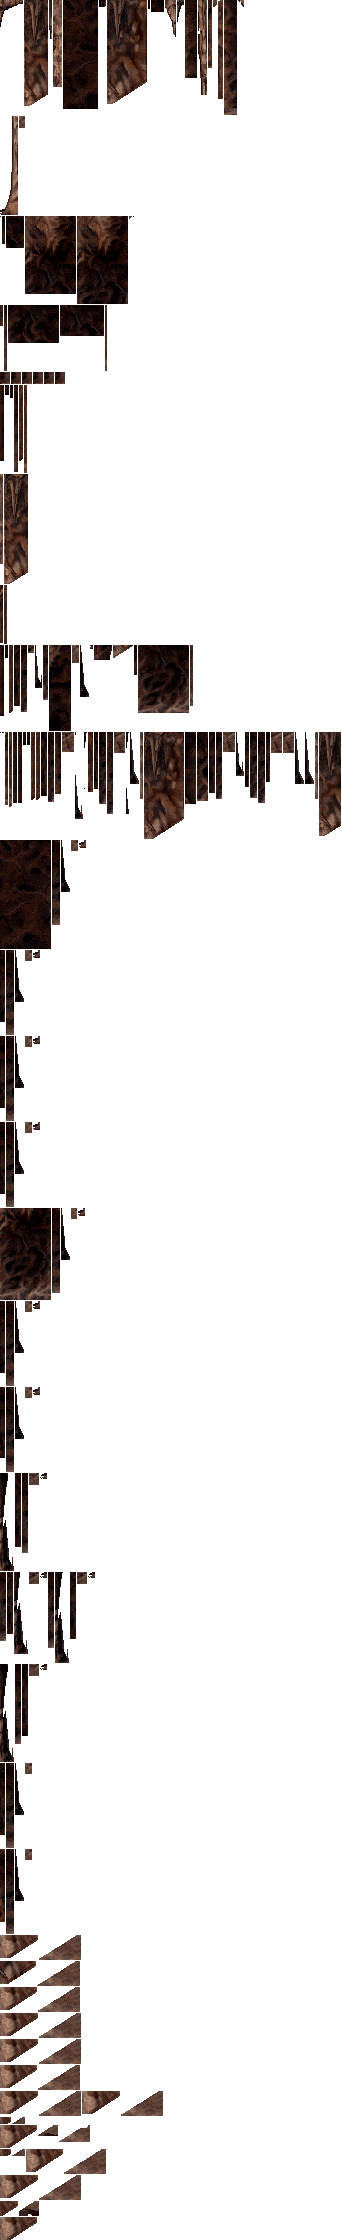
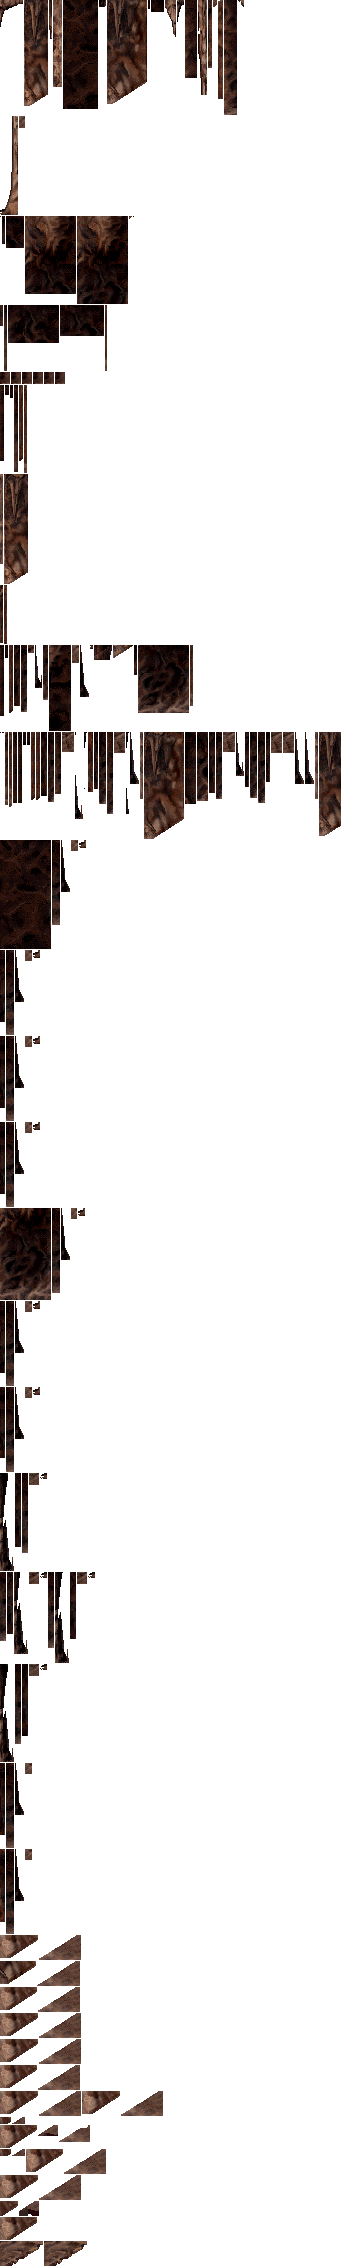
Blend the reviewed right floor tips in level 3 room 16

diff --git a/tests/test_floor_right_edge_artwork.py b/tests/test_floor_right_edge_artwork.py
@@ -1,0 +1,79 @@
+"""Reviewed right tips of the floor beneath columns and shooting traps."""
+import hashlib
+import unittest
+
+from PIL import Image, ImageChops
+
+from pop2.cavern_retouch import retouched_sprite
+from pop2.caverns import (cavern_assets, cavern_command_sprite, cavern_room, clipped_sprite,
+                          pressure_drawing_commands)
+from pop2.level_data import LevelDefinition
+from pop2.level_rendering import LevelRenderer
+from pop2.paths import ASSET_DIR
+from pop2.render_opening import load_resource_file
+from tests import test_cavern_retouch as retouch_tests
+
+
+@unittest.skipUnless((ASSET_DIR / 'caverns_entry.json').is_file(),
+                     'Imported game resources required')
+class FloorRightEdgeArtworkTests(unittest.TestCase):
+    def test_room16_approved_tips_preserve_other_floor_and_native_opt_out(self):
+        definition = LevelDefinition.read(load_resource_file('Prince.rsrc'), 3)
+        edited = LevelRenderer(definition, preload_room=False).room(15)
+        native = cavern_room(15, animated=True)
+        before, after = native.flattened().convert('RGB'), edited.flattened().convert('RGB')
+        self.assertEqual(hashlib.sha256(after.tobytes()).hexdigest(),
[1 lines of base64/hex data omitted]
+        changed = [(x, y) for y in range(365) for x in range(510)
+                   if before.getpixel((x, y)) != after.getpixel((x, y))]
+        self.assertEqual(len(changed), 220)
+        self.assertTrue(all(215 <= y < 240 and (99 <= x < 142 or 354 <= x < 397)
+                            for x, y in changed))
+        self.assertEqual(native.foreground.tobytes(), edited.foreground.tobytes())
+        retouch_tests.CavernRetouchTests().assert_masks_equal(native, edited)
+        original = LevelRenderer(definition, preload_room=False, retouch_caverns=False)
+        self.assertEqual(original.room(15).flattened().tobytes(), native.flattened().tobytes())
+
+    def test_room16_columns_buttons_and_trap_mouths_stay_native_in_other_states(self):
+        program, resources, palette, shapes = cavern_assets()
+        records = program['pressure_plates']['rooms']['15']
+        states = [(0, a, 0, b) for a in (0, 1) for b in (0, 1)]
+        states.extend((phase, 0, phase, 0) for phase in range(1, 7))
+        for phases in states:
+            with self.subTest(phases=phases):
+                native = cavern_room(15, animated=True, pressure_key=phases)
+                edited = cavern_room(15, animated=True, retouched=True, pressure_key=phases)
+                commands = pressure_drawing_commands(program['rooms']['15'], records, phases, resources)
+                mask = Image.new('L', (510, 365))
+                for command in commands:
+                    if command[7] != 4 or command[1] not in (*range(3531, 3539), 3554, 3555):
+                        continue
+                    source = cavern_command_sprite(command, resources, palette, shapes)
+                    self.assertIs(retouched_sprite(15, command, source), source)
+                    clipped = clipped_sprite(source, command)
+                    if clipped:
+                        image, (x, y) = clipped
+                        mask.paste(255, (x, y, x+image.width, y+image.height), image.getchannel('A'))
+                difference = ImageChops.difference(native.flattened().convert('RGB'),
+                                                  edited.flattened().convert('RGB'))
+                self.assertIsNone(ImageChops.multiply(difference, mask.convert('RGB')).getbbox())
+                self.assertEqual(native.foreground.tobytes(), edited.foreground.tobytes())
+                retouch_tests.CavernRetouchTests().assert_masks_equal(native, edited)
+
+    def test_room16_source_placement_hash_and_alpha_guards(self):
+        program, resources, palette, shapes = cavern_assets()
+        for x in (53, 308):
+            with self.subTest(x=x):
+                command = next(c for c in program['rooms']['15']
+                               if c[:5] == ['back', 3526, x, 245, 16])
+                source = cavern_command_sprite(command, resources, palette, shapes)
+                result = retouched_sprite(15, command, source)
+                self.assertNotEqual(result.tobytes(), source.tobytes())
+                self.assertEqual(result.getchannel('A').tobytes(), source.getchannel('A').tobytes())
+                altered = source.copy()
+                altered.putpixel((0, 0), (1, 2, 3, 255))
+                self.assertIs(retouched_sprite(15, command, altered), altered)
+                for field, value in ((2, x+1), (3, 246), (7, 1)):
+                    shifted = command.copy()
+                    shifted[field] = value
+                    self.assertIs(retouched_sprite(15, shifted, source), source)

diff --git a/tests/test_cavern_retouch.py b/tests/test_cavern_retouch.py
@@ -50,8 +50,8 @@ class BundledCavernRetouchTests(unittest.TestCase):
 
     def test_bundled_variants_have_valid_scope_and_crop_sizes(self):
         assets = retouch_assets()
-        self.assertEqual(len(assets), 81)
-        self.assertEqual({key[0] for key in assets}, {0, 1, 4, 6, 7, 10, 11, 12, 14, 20, 23, 25, 27, 29, 31})
+        self.assertEqual(len(assets), 83)
+        self.assertEqual({key[0] for key in assets}, {0, 1, 4, 6, 7, 10, 11, 12, 14, 15, 20, 23, 25, 27, 29, 31})
         for key, (record, image) in assets.items():
             with self.subTest(key=key):
                 x1, y1, x2, y2 = record['source_rect']
@@ -64,7 +64,7 @@ class BundledCavernRetouchTests(unittest.TestCase):
     def test_unaffected_rooms_do_not_even_load_retouch_assets(self):
         source = Image.new('RGBA', (5, 5), 'red')
         with patch('pop2.cavern_retouch.retouch_assets', side_effect=AssertionError('Unexpected load')):
-            for room in set(range(32)) - {0, 1, 4, 6, 7, 10, 11, 12, 14, 20, 23, 25, 27, 29, 31}:
+            for room in set(range(32)) - {0, 1, 4, 6, 7, 10, 11, 12, 14, 15, 20, 23, 25, 27, 29, 31}:
                 self.assertIs(retouched_sprite(room, [], source), source)
 
     def test_unmatched_sources_and_other_shape_libraries_are_untouched(self):
@@ -302,7 +302,7 @@ class CavernRetouchTests(unittest.TestCase):
         self.assertEqual(closed.crop((185, 135, 281, 220)).tobytes(), native.crop((185, 135, 281, 220)).tobytes())
 
     def test_unapproved_rooms_remain_pixel_identical(self):
-        for room in set(range(32)) - {0, 1, 4, 6, 7, 10, 11, 12, 14, 20, 23, 25, 27, 29, 31}:
+        for room in set(range(32)) - {0, 1, 4, 6, 7, 10, 11, 12, 14, 15, 20, 23, 25, 27, 29, 31}:
             with self.subTest(room=room):
                 native, edited = cavern_room(room), cavern_room(room, retouched=True)
                 self.assertEqual(native.background.tobytes(), edited.background.tobytes())
@@ -438,17 +438,17 @@ class CavernRetouchTests(unittest.TestCase):
         game = LevelRenderer(level, preload_room=False)
         reference = LevelRenderer(level, preload_room=False, retouch_caverns=False)
         for room in range(32):
-            expected = cavern_room(room, animated=True, retouched=room in (0, 1, 4, 6, 7, 10, 11, 12, 14, 20, 23, 25, 27, 29, 31))
+            expected = cavern_room(room, animated=True, retouched=room in (0, 1, 4, 6, 7, 10, 11, 12, 14, 15, 20, 23, 25, 27, 29, 31))
             self.assertEqual(game.room(room).flattened().tobytes(), expected.flattened().tobytes())
             self.assertEqual(reference.room(room).flattened().tobytes(), cavern_room(room, animated=True).flattened().tobytes())
 
     def test_retained_pixels_do_not_propagate_retouch_into_adjacent_rooms(self):
         level = LevelDefinition.read(load_resource_file('Prince.rsrc'), 3)
         terrain = LevelMap(level.data)
-        for source in (0, 1, 4, 6, 7, 10, 11, 12, 14, 20, 23, 25, 27, 29, 31):
+        for source in (0, 1, 4, 6, 7, 10, 11, 12, 14, 15, 20, 23, 25, 27, 29, 31):
             for direction in ('left', 'right', 'up', 'down'):
                 destination = terrain.neighbor(source, direction)
-                if destination is None or destination in (0, 1, 4, 6, 7, 10, 11, 12, 14, 20, 23, 25, 27, 29, 31):
+                if destination is None or destination in (0, 1, 4, 6, 7, 10, 11, 12, 14, 15, 20, 23, 25, 27, 29, 31):
                     continue
                 with self.subTest(source=source, destination=destination):
                     game = LevelRenderer(level, preload_room=False)

diff --git a/pop2/cavern_retouch.py b/pop2/cavern_retouch.py
@@ -86,7 +86,7 @@ def retouched_door_sprite(level, room, command, source):
 
 
 def retouched_sprite(room, command, source, *, level_number=3):
-    approved = (room in (0, 1, 4, 6, 7, 10, 11, 12, 14, 20, 23, 25, 27, 29, 31) if level_number == 3
+    approved = (room in (0, 1, 4, 6, 7, 10, 11, 12, 14, 15, 20, 23, 25, 27, 29, 31) if level_number == 3
                 else room in (4, 5, 11, 12, 13, 17, 21, 22, 25, 27) if level_number == 4
                 else level_number == 5 and room in (1, 5, 6, 8, 10, 12, 13, 14, 15, 16, 18, 21, 22, 24))
     if not approved or len(command) < 8 or command[7] != 4:

diff --git a/docs/CAVERN_ARTWORK.md b/docs/CAVERN_ARTWORK.md
@@ -318,3 +318,20 @@ Tests preserve every button pixel with the plate released and pressed, along
 with all source alpha, foreground pixels and physical masks. Earlier approved
 artwork stays unchanged. This completes the user's selected floor-join batch;
 it does not certify that every cavern junction has been visually reviewed.
+
+## Level3 room16: right tips beneath the column and shooting trap
+
+The user approved the two right-tip reference proposals on 2026-11-07.
+Both use SHAP3526, at X53 and X308/bottom245. They are separate from the
+earlier left wall/floor joins. A narrow three-pixel band on the actual right
+contour grades nearby native texture towards the existing neighboring floor,
+retaining the native palette and pixel grid. The neighboring pieces remain
+untouched, including the pressure-plate drawings in both states.
+
+The two placement-specific crops change109 and111 visible pixels,220 in total.
+The approved cached RGB hash is
[1 lines of base64/hex data omitted]
+Foreground pixels, column sources, source alpha, physical masks and earlier
+approved artwork are preserved. The comparisons stay local under
+`rendered/floor-right-edge-references-v1/`. This approval covers those two
+examples only; other visible right tips require their own local previews.
